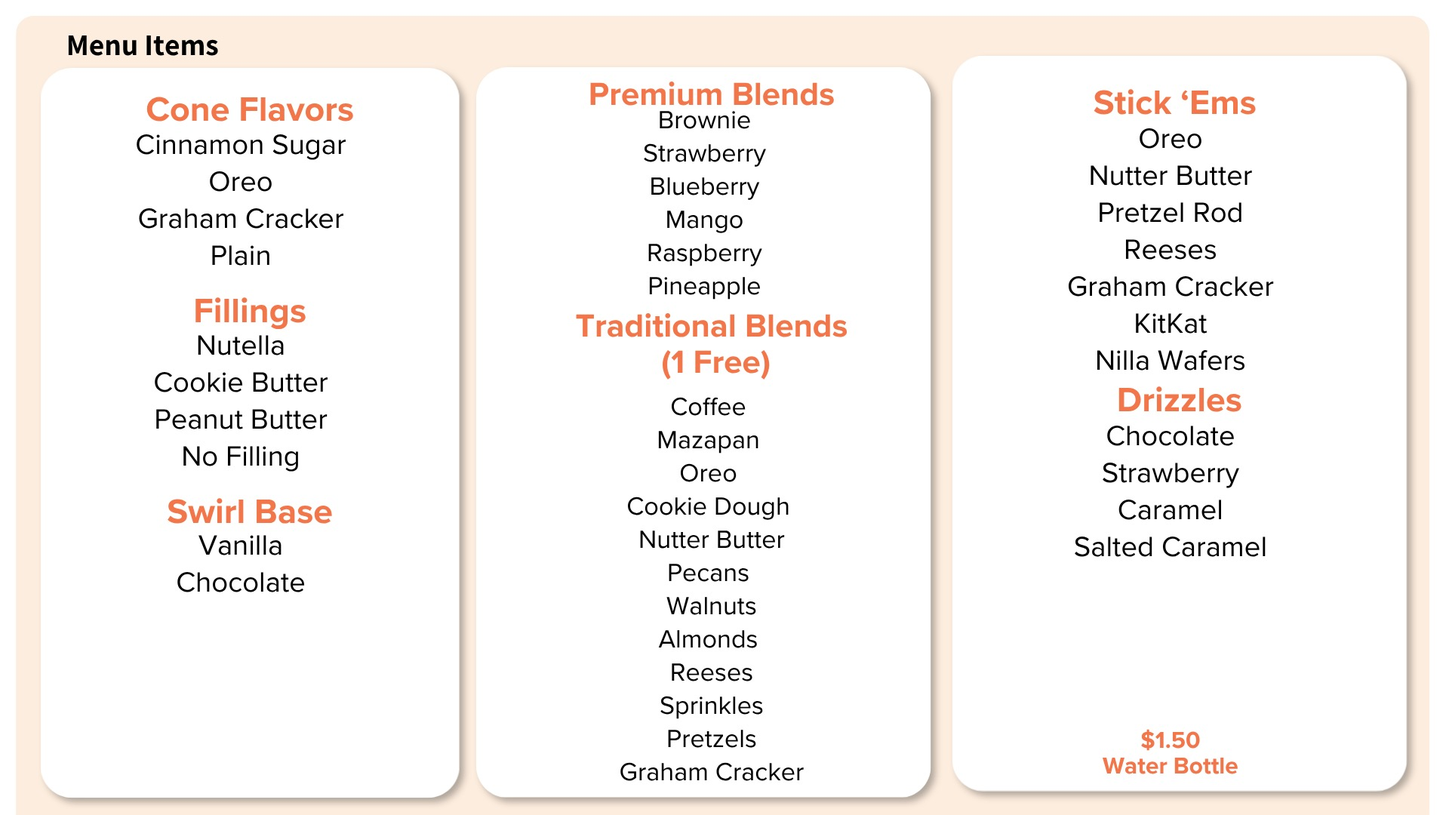
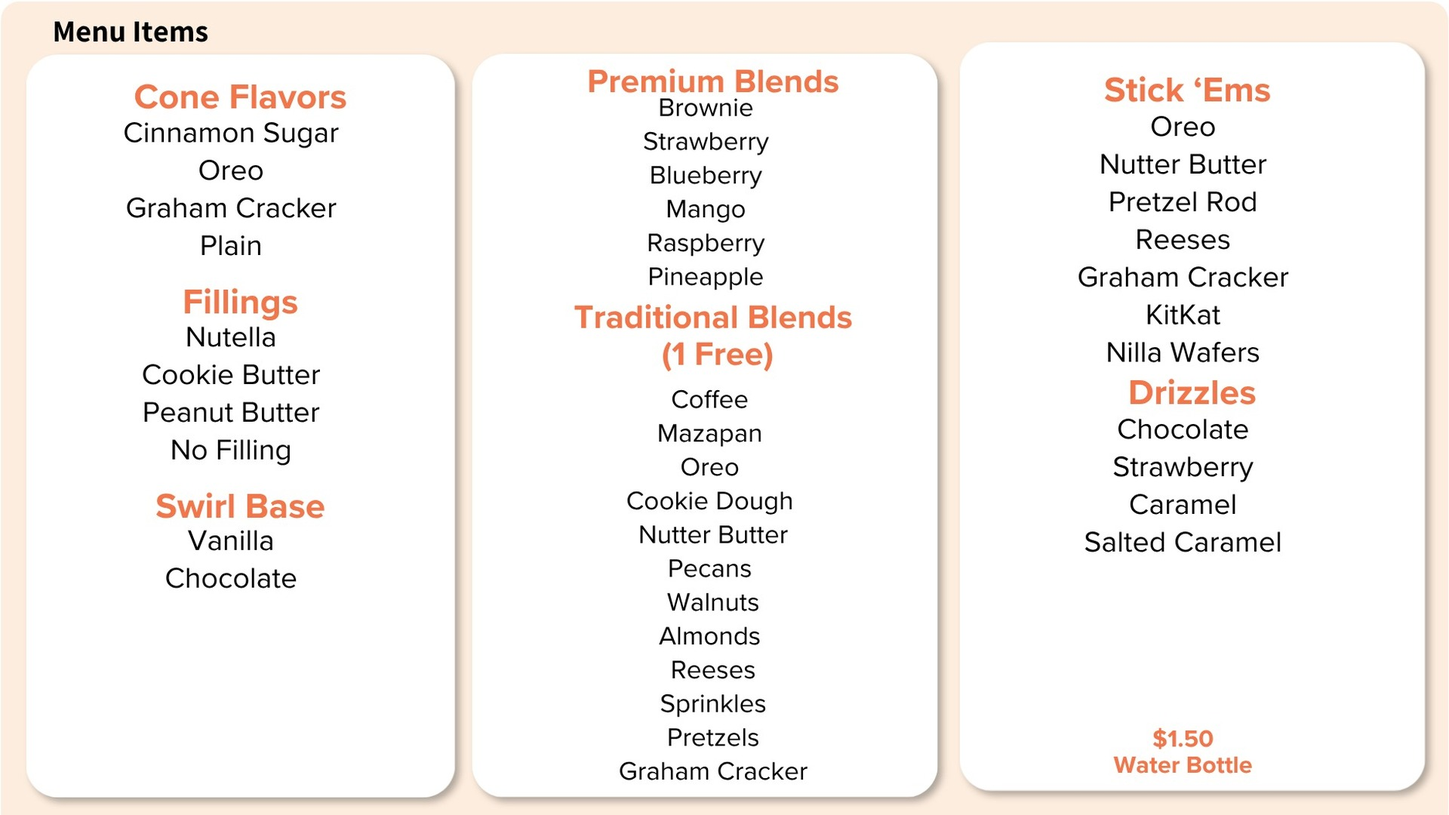
Trim menu JPEG margins and border, scale to 1920x1080; drop figure borders
- Auto-crop near-white frame on Menu Options and Menu Items, then LANCZOS resize to full HD
- Remove border/shadow classes from menu figures so the page does not add an extra outline

Made-with: Cursor

Changed region(s): [[0.0, 0.0, 1.0, 1.0], [0.0938, 0.6111, 0.25, 0.7333], [0.75, 0.8861, 0.875, 0.9472]]

diff --git a/index.html b/index.html
@@ -1276,7 +1276,7 @@ body {
     <div id="root"><div class="min-h-screen bg-surface"><header class="sticky top-0 z-50 border-b border-ink/10 bg-surface"><div class="mx-auto flex max-w-5xl items-center justify-between gap-4 px-5 py-4 lg:px-8"><a href="#" class="flex shrink-0 items-center focus:outline-none focus-visible:ring-2 focus-visible:ring-primary focus-visible:ring-offset-2" aria-label="CONE N&#39; SWIRL — Home"><img alt="CONE N&#39; SWIRL" class="h-10 w-auto max-w-[min(100%,200px)] object-contain object-left sm:h-12 sm:max-w-[240px]" src="./images/SwirlyOrange.jpeg"></a><nav class="hidden items-center gap-6 lg:flex" aria-label="Main"><a href="#about" class="text-sm font-semibold uppercase tracking-wide text-ink/80 transition-colors hover:text-primary">About</a><a href="#menu" class="text-sm font-semibold uppercase tracking-wide text-ink/80 transition-colors hover:text-primary">Menu</a><a href="#schedule" class="text-sm font-semibold uppercase tracking-wide text-ink/80 transition-colors hover:text-primary">Find us</a><a href="#gallery" class="text-sm font-semibold uppercase tracking-wide text-ink/80 transition-colors hover:text-primary">Gallery</a><a href="#contact" class="text-sm font-semibold uppercase tracking-wide text-ink/80 transition-colors hover:text-primary">Contact</a></nav><div class="hidden items-center gap-3 lg:flex"><a href="https://www.instagram.com/conenswirl/" target="_blank" rel="noopener noreferrer" class="inline-flex text-primary transition hover:text-ink" aria-label="CONE N&#39; SWIRL on Instagram (@conenswirl)"><svg class="h-6 w-6" viewBox="0 0 24 24" aria-hidden="true" fill="currentColor"><path d="M12 2.163c3.204 0 3.584.012 4.85.07 1.252.058 2.083.242 2.633.516a5.275 5.275 0 011.92 1.247 5.25 5.25 0 011.247 1.92c.274.55.458 1.38.516 2.633.058 1.266.07 1.646.07 4.85s-.012 3.584-.07 4.85c-.058 1.252-.242 2.083-.516 2.633a5.275 5.275 0 01-1.247 1.92 5.25 5.25 0 01-1.92 1.247c-.55.274-1.38.458-2.633.516-1.266.058-1.646.07-4.85.07s-3.584-.012-4.85-.07c-1.252-.058-2.083-.242-2.633-.516a5.275 5.275 0 01-1.92-1.247 5.25 5.25 0 01-1.247-1.92c-.274-.55-.458-1.38-.516-2.633-.058-1.266-.07-1.646-.07-4.85s.012-3.584.07-4.85c.058-1.252.242-2.083.516-2.633a5.275 5.275 0 011.247-1.92 5.25 5.25 0 011.92-1.247c.55-.274 1.38-.458 2.633-.516 1.266-.058 1.646-.07 4.85-.07zM12 5.838a6.162 6.162 0 100 12.324A6.162 6.162 0 0012 5.838zm0 10a4 4 0 110-8 4 4 0 010 8zm6.406-11.845a1.44 1.44 0 100 2.881 1.44 1.44 0 000-2.881z"></path></svg></a><a href="https://www.facebook.com/conenswirl" target="_blank" rel="noopener noreferrer" class="inline-flex text-primary transition hover:text-ink" aria-label="CONE N&#39; SWIRL on Facebook"><svg class="h-6 w-6" viewBox="0 0 24 24" aria-hidden="true" fill="currentColor"><path d="M24 12.073c0-6.627-5.373-12-12-12s-12 5.373-12 12c0 5.99 4.388 10.954 10.125 11.854v-8.385H7.078v-3.47h3.047V9.43c0-3.007 1.792-4.669 4.533-4.669 1.312 0 2.686.235 2.686.235v2.953H15.83c-1.491 0-1.956.925-1.956 1.874v2.25h3.328l-.532 3.47h-2.796v8.385C19.612 23.027 24 18.062 24 12.073z"></path></svg></a><a href="https://www.tiktok.com/@conenswirl" target="_blank" rel="noopener noreferrer" class="inline-flex text-primary transition hover:text-ink" aria-label="CONE N&#39; SWIRL on TikTok (@conenswirl)"><svg class="h-6 w-6" viewBox="0 0 24 24" aria-hidden="true" fill="currentColor"><path d="M12.525.02c1.31-.02 2.61-.01 3.91-.02.08 1.53.63 3.09 1.75 4.17 1.12 1.11 2.7 1.62 4.24 1.79v4.03c-1.44-.05-2.89-.35-4.2-.97-.57-.26-1.1-.59-1.62-.93-.01 2.92.01 5.84-.02 8.75-.08 1.4-.54 2.79-1.35 3.94-1.31 1.92-3.58 3.17-5.91 3.21-1.43.08-2.86-.31-4.08-1.03-2.02-1.19-3.44-3.37-3.65-5.71-.02-.5-.03-1-.01-1.49.18-1.9 1.12-3.72 2.58-4.96 1.66-1.44 3.98-2.13 6.15-1.72.02 1.48.02 2.96 0 4.44-.9-.15-1.89-.1-2.63.42-.72.51-1.16 1.35-1.21 2.21-.02.27-.01.55.02.82.15.94 1.01 1.74 1.94 1.85.93.12 1.91-.29 2.46-1.06.3-.41.44-.91.44-1.41V.02h-.13z"></path></svg></a><a href="#contact" class="border-2 border-primary bg-primary px-4 py-2 text-xs font-bold uppercase tracking-widest text-surface transition hover:bg-ink hover:border-ink">Contact us</a></div><button type="button" class="inline-flex h-10 w-10 items-center justify-center border border-ink/20 lg:hidden" aria-expanded="false" aria-label="Toggle menu"><span class="sr-only">Menu</span><svg class="h-5 w-5 text-ink" fill="none" viewBox="0 0 24 24" stroke="currentColor" aria-hidden="true"><path stroke-linecap="round" stroke-linejoin="round" stroke-width="2" d="M4 6h16M4 12h16M4 18h16"></path></svg></button></div></header><main><section class="hero-with-background px-5 py-16 text-center sm:py-20 lg:py-28"><div class="hero-content mx-auto max-w-3xl"><img alt="" class="hero-swirly-logo mx-auto max-w-full object-contain" src="./images/SwirlyWhite.png"><h1 class="mt-8 font-display text-4xl font-bold uppercase leading-tight tracking-tight text-surface sm:text-5xl lg:text-6xl">We put a twist to the ice cream cone</h1><p class="mx-auto mt-6 max-w-xl text-base leading-relaxed text-surface sm:text-lg">We serve blended ice cream paired with fresh baked Hungarian Chimney Cones.</p><div class="mt-10 flex flex-wrap justify-center gap-3"><a href="#menu" class="inline-flex border-2 border-surface bg-surface px-8 py-3 text-xs font-bold uppercase tracking-widest text-ink transition">See the menu</a><a href="#contact" class="inline-flex border-2 border-surface bg-transparent px-8 py-3 text-xs font-bold uppercase tracking-widest text-surface transition">Contact us</a></div><p class="mt-8 text-center text-sm font-semibold text-surface">Follow @conenswirl for where we're parked and what's on special.</p></div></section><section id="about" class="scroll-mt-20 border-b border-ink/10 bg-surface px-5 py-16 sm:py-24 lg:px-8"><div class="mx-auto max-w-3xl text-center"><h2 class="font-display text-3xl font-bold uppercase tracking-tight text-ink sm:text-4xl lg:text-5xl">Soft serve with a modern twist</h2><p class="mt-8 text-lg leading-relaxed text-ink/80">One evening, we stumbled upon a show featuring these incredible Hungarian chimney cones. We were just curious to try them as guests—but when we looked around San Antonio and Central Texas, there were none. We drove all the way to Houston just to taste one! After that trip, we were hooked. We spent two months experimenting in our kitchen, testing countless recipes with friends and neighbors until we perfected our own.
 What truly sets us apart is the fusion we created. Instead of traditional soft-serve, we offer a blended ice cream experience—similar to New Zealand-style soft serve, but with our own twist. We start with scooped ice cream, and aside from real fruit as an option, we can blend in coffee, almonds, pecans, Oreos, brownies, and much more.
 But that’s not all—each swirl is your creation. Our menu is fully customizable, giving you the freedom to craft your perfect cone or cup. At Cone N’ Swirl, every swirl is uniquely yours. We can’t wait to share this journey—and a swirl—with you!
-</p></div></section><section id="menu" class="scroll-mt-20 border-b border-ink/10 bg-surface px-5 py-16 sm:py-24 lg:px-8"><div class="mx-auto max-w-6xl"><div class="mx-auto max-w-3xl text-center"><p class="font-display text-xs font-semibold uppercase tracking-[0.35em] text-primary">Menu</p><h2 class="mt-3 font-display text-3xl font-bold uppercase tracking-tight text-ink sm:text-4xl">Build your perfect swirl</h2><p class="mt-6 text-lg leading-relaxed text-ink/85">With our unique cones, fillings, blends, Stick ’Ems, and drizzles, your choices are endless—you design every cone and cup.</p></div><figure class="mt-12 overflow-hidden rounded-lg border border-ink/15 bg-surface shadow-sm"><img alt="CONE N&#39; SWIRL menu options: offerings, prices, and how to build your cone or cup." class="mx-auto block w-full max-w-4xl object-contain" loading="lazy" decoding="async" src="./images/Menu%20Options.jpeg"><figcaption class="sr-only">Menu options graphic with offerings and pricing.</figcaption></figure><figure class="mt-14 overflow-hidden rounded-lg border border-ink/15 bg-surface shadow-sm"><img alt="CONE N&#39; SWIRL menu items: cones, fillings, blends, Stick &#39;Ems, drizzles, and mix-in options." class="mx-auto block w-full max-w-4xl object-contain" loading="lazy" decoding="async" src="./images/Menu%20Items.jpeg"><figcaption class="sr-only">Menu items: mix-ins, blends, Stick &#39;Ems, and drizzles.</figcaption></figure></div></section><section id="schedule" class="scroll-mt-20 border-b border-ink/10 bg-surface px-5 py-16 sm:py-24 lg:px-8"><div class="mx-auto max-w-3xl text-center"><p class="font-display text-xs font-semibold uppercase tracking-[0.35em] text-ink">Find us</p><h2 class="mt-3 font-display text-3xl font-bold uppercase tracking-tight text-ink sm:text-4xl">This week's stops</h2><p class="mt-4 leading-relaxed text-ink/75">Schedules change with weather and events—follow us on <a href="https://www.instagram.com/conenswirl/" target="_blank" rel="noopener noreferrer" class="social-inline-link font-semibold text-primary underline-offset-4 hover:underline"><svg viewBox="0 0 24 24" aria-hidden="true" fill="currentColor"><path d="M12 2.163c3.204 0 3.584.012 4.85.07 1.252.058 2.083.242 2.633.516a5.275 5.275 0 011.92 1.247 5.25 5.25 0 011.247 1.92c.274.55.458 1.38.516 2.633.058 1.266.07 1.646.07 4.85s-.012 3.584-.07 4.85c-.058 1.252-.242 2.083-.516 2.633a5.275 5.275 0 01-1.247 1.92 5.25 5.25 0 01-1.92 1.247c-.55.274-1.38.458-2.633.516-1.266.058-1.646.07-4.85.07s-3.584-.012-4.85-.07c-1.252-.058-2.083-.242-2.633-.516a5.275 5.275 0 01-1.92-1.247 5.25 5.25 0 01-1.247-1.92c-.274-.55-.458-1.38-.516-2.633-.058-1.266-.07-1.646-.07-4.85s.012-3.584.07-4.85c.058-1.252.242-2.083.516-2.633a5.275 5.275 0 011.247-1.92 5.25 5.25 0 011.92-1.247c.55-.274 1.38-.458 2.633-.516 1.266-.058 1.646-.07 4.85-.07zM12 5.838a6.162 6.162 0 100 12.324A6.162 6.162 0 0012 5.838zm0 10a4 4 0 110-8 4 4 0 010 8zm6.406-11.845a1.44 1.44 0 100 2.881 1.44 1.44 0 000-2.881z"></path></svg>Instagram</a>, <a href="https://www.facebook.com/conenswirl" target="_blank" rel="noopener noreferrer" class="social-inline-link font-semibold text-primary underline-offset-4 hover:underline"><svg viewBox="0 0 24 24" aria-hidden="true" fill="currentColor"><path d="M24 12.073c0-6.627-5.373-12-12-12s-12 5.373-12 12c0 5.99 4.388 10.954 10.125 11.854v-8.385H7.078v-3.47h3.047V9.43c0-3.007 1.792-4.669 4.533-4.669 1.312 0 2.686.235 2.686.235v2.953H15.83c-1.491 0-1.956.925-1.956 1.874v2.25h3.328l-.532 3.47h-2.796v8.385C19.612 23.027 24 18.062 24 12.073z"></path></svg>Facebook</a>, and <a href="https://www.tiktok.com/@conenswirl" target="_blank" rel="noopener noreferrer" class="social-inline-link font-semibold text-primary underline-offset-4 hover:underline"><svg viewBox="0 0 24 24" aria-hidden="true" fill="currentColor"><path d="M12.525.02c1.31-.02 2.61-.01 3.91-.02.08 1.53.63 3.09 1.75 4.17 1.12 1.11 2.7 1.62 4.24 1.79v4.03c-1.44-.05-2.89-.35-4.2-.97-.57-.26-1.1-.59-1.62-.93-.01 2.92.01 5.84-.02 8.75-.08 1.4-.54 2.79-1.35 3.94-1.31 1.92-3.58 3.17-5.91 3.21-1.43.08-2.86-.31-4.08-1.03-2.02-1.19-3.44-3.37-3.65-5.71-.02-.5-.03-1-.01-1.49.18-1.9 1.12-3.72 2.58-4.96 1.66-1.44 3.98-2.13 6.15-1.72.02 1.48.02 2.96 0 4.44-.9-.15-1.89-.1-2.63.42-.72.51-1.16 1.35-1.21 2.21-.02.27-.01.55.02.82.15.94 1.01 1.74 1.94 1.85.93.12 1.91-.29 2.46-1.06.3-.41.44-.91.44-1.41V.02h-.13z"></path></svg>TikTok</a> (<a href="https://www.instagram.com/conenswirl/" target="_blank" rel="noopener noreferrer" class="font-semibold text-primary underline-offset-4 hover:underline">@conenswirl</a>) for rain dates, pop-ups, and this week's stops.</p></div><div class="mx-auto mt-12 grid max-w-5xl grid-cols-1 items-center gap-8 lg:grid-cols-2 lg:gap-12"><div class="flex w-full justify-center"><div class="w-full max-w-xl overflow-hidden rounded-lg border border-ink/15 lg:max-w-none"><img src="./images/food-truck-serving.jpg" alt="CONE N&#39; SWIRL food truck serving at the window" class="aspect-[4/3] w-full object-cover" loading="lazy" decoding="async" width="800" height="600"></div></div><div class="overflow-hidden border border-ink/15"><table class="w-full text-left text-sm"><thead><tr class="border-b border-ink/15 bg-ink/5"><th class="px-4 py-3 font-display text-xs font-semibold uppercase tracking-wider text-ink sm:px-5">Day</th><th class="px-4 py-3 font-display text-xs font-semibold uppercase tracking-wider text-ink sm:px-5">Location</th><th class="hidden px-4 py-3 font-display text-xs font-semibold uppercase tracking-wider text-ink sm:table-cell sm:px-5">Hours</th></tr></thead><tbody><tr class="border-b border-ink/10 last:border-0"><td class="px-4 py-4 font-semibold text-primary sm:px-5">Tue</td><td class="px-4 py-4 text-ink sm:px-5">Copper Canyon<span class="mt-1 block text-ink/60 sm:hidden">5pm – 8pm</span></td><td class="hidden px-4 py-4 text-ink/70 sm:table-cell sm:px-5">5pm – 8pm</td></tr><tr class="border-b border-ink/10 last:border-0"><td class="px-4 py-4 font-semibold text-primary sm:px-5">Wed</td><td class="px-4 py-4 text-ink sm:px-5">Ranches at Creekside<span class="mt-1 block text-ink/60 sm:hidden">5pm – 8pm</span></td><td class="hidden px-4 py-4 text-ink/70 sm:table-cell sm:px-5">5pm – 8pm</td></tr><tr class="border-b border-ink/10 last:border-0"><td class="px-4 py-4 font-semibold text-primary sm:px-5">Thu</td><td class="px-4 py-4 text-ink sm:px-5">Whisper Falls<span class="mt-1 block text-ink/60 sm:hidden">5pm – 8pm</span></td><td class="hidden px-4 py-4 text-ink/70 sm:table-cell sm:px-5">5pm – 8pm</td></tr><tr class="border-b border-ink/10 last:border-0"><td class="px-4 py-4 font-semibold text-primary sm:px-5">Fri</td><td class="px-4 py-4 text-ink sm:px-5">Langdon Community<span class="mt-1 block text-ink/60 sm:hidden">5pm – 8pm</span></td><td class="hidden px-4 py-4 text-ink/70 sm:table-cell sm:px-5">5pm – 8pm</td></tr><tr class="border-b border-ink/10 last:border-0"><td class="px-4 py-4 font-semibold text-primary sm:px-5">Sat</td><td class="px-4 py-4 text-ink sm:px-5">Canyon Crest<span class="mt-1 block text-ink/60 sm:hidden">5pm – 8pm</span></td><td class="hidden px-4 py-4 text-ink/70 sm:table-cell sm:px-5">5pm – 8pm</td></tr></tbody></table></div></div></section><section class="border-b border-ink/10 bg-surface"><div id="gallery" class="scroll-mt-20 px-5 py-16 sm:py-20 lg:px-8"><div class="mx-auto max-w-5xl"><h2 class="text-center font-display text-3xl font-bold uppercase tracking-tight text-ink sm:text-4xl">Gallery</h2><p class="mx-auto mt-4 max-w-xl text-center leading-relaxed text-ink/75">Fresh photos live on <a href="https://www.instagram.com/conenswirl/" target="_blank" rel="noopener noreferrer" class="social-inline-link font-semibold text-primary underline-offset-4 hover:underline"><svg viewBox="0 0 24 24" aria-hidden="true" fill="currentColor"><path d="M12 2.163c3.204 0 3.584.012 4.85.07 1.252.058 2.083.242 2.633.516a5.275 5.275 0 011.92 1.247 5.25 5.25 0 011.247 1.92c.274.55.458 1.38.516 2.633.058 1.266.07 1.646.07 4.85s-.012 3.584-.07 4.85c-.058 1.252-.242 2.083-.516 2.633a5.275 5.275 0 01-1.247 1.92 5.25 5.25 0 01-1.92 1.247c-.55.274-1.38.458-2.633.516-1.266.058-1.646.07-4.85.07s-3.584-.012-4.85-.07c-1.252-.058-2.083-.242-2.633-.516a5.275 5.275 0 01-1.92-1.247 5.25 5.25 0 01-1.247-1.92c-.274-.55-.458-1.38-.516-2.633-.058-1.266-.07-1.646-.07-4.85s.012-3.584.07-4.85c.058-1.252.242-2.083.516-2.633a5.275 5.275 0 011.247-1.92 5.25 5.25 0 011.92-1.247c.55-.274 1.38-.458 2.633-.516 1.266-.058 1.646-.07 4.85-.07zM12 5.838a6.162 6.162 0 100 12.324A6.162 6.162 0 0012 5.838zm0 10a4 4 0 110-8 4 4 0 010 8zm6.406-11.845a1.44 1.44 0 100 2.881 1.44 1.44 0 000-2.881z"></path></svg>Instagram</a>, <a href="https://www.facebook.com/conenswirl" target="_blank" rel="noopener noreferrer" class="social-inline-link font-semibold text-primary underline-offset-4 hover:underline"><svg viewBox="0 0 24 24" aria-hidden="true" fill="currentColor"><path d="M24 12.073c0-6.627-5.373-12-12-12s-12 5.373-12 12c0 5.99 4.388 10.954 10.125 11.854v-8.385H7.078v-3.47h3.047V9.43c0-3.007 1.792-4.669 4.533-4.669 1.312 0 2.686.235 2.686.235v2.953H15.83c-1.491 0-1.956.925-1.956 1.874v2.25h3.328l-.532 3.47h-2.796v8.385C19.612 23.027 24 18.062 24 12.073z"></path></svg>Facebook</a>, and <a href="https://www.tiktok.com/@conenswirl" target="_blank" rel="noopener noreferrer" class="social-inline-link font-semibold text-primary underline-offset-4 hover:underline"><svg viewBox="0 0 24 24" aria-hidden="true" fill="currentColor"><path d="M12.525.02c1.31-.02 2.61-.01 3.91-.02.08 1.53.63 3.09 1.75 4.17 1.12 1.11 2.7 1.62 4.24 1.79v4.03c-1.44-.05-2.89-.35-4.2-.97-.57-.26-1.1-.59-1.62-.93-.01 2.92.01 5.84-.02 8.75-.08 1.4-.54 2.79-1.35 3.94-1.31 1.92-3.58 3.17-5.91 3.21-1.43.08-2.86-.31-4.08-1.03-2.02-1.19-3.44-3.37-3.65-5.71-.02-.5-.03-1-.01-1.49.18-1.9 1.12-3.72 2.58-4.96 1.66-1.44 3.98-2.13 6.15-1.72.02 1.48.02 2.96 0 4.44-.9-.15-1.89-.1-2.63.42-.72.51-1.16 1.35-1.21 2.21-.02.27-.01.55.02.82.15.94 1.01 1.74 1.94 1.85.93.12 1.91-.29 2.46-1.06.3-.41.44-.91.44-1.41V.02h-.13z"></path></svg>TikTok</a> at <a href="https://www.instagram.com/conenswirl/" target="_blank" rel="noopener noreferrer" class="font-semibold text-primary underline-offset-4 hover:underline">@conenswirl</a>—follow for pop-ups, specials, and behind the window.</p><div class="gallery-grid mt-10 grid grid-cols-2 gap-2 sm:grid-cols-3 sm:gap-3 md:gap-4"><div class="overflow-hidden rounded-lg border border-ink/15 bg-surface"><img src="./images/plain.png" alt="Plain cone with soft serve" class="w-full h-auto" loading="lazy" decoding="async"></div><div class="overflow-hidden rounded-lg border border-ink/15 bg-surface"><img src="./images/oreocone.png" alt="Oreo cone with ice cream" class="w-full h-auto" loading="lazy" decoding="async"></div><div class="overflow-hidden rounded-lg border border-ink/15 bg-surface"><img src="./images/purpletop.png?v=2" alt="Purple topped soft serve cone" class="w-full h-auto" loading="lazy" decoding="async"></div><div class="overflow-hidden rounded-lg border border-ink/15 bg-surface"><img src="./images/stickems.png" alt="Soft serve with Stick ’Ems" class="w-full h-auto" loading="lazy" decoding="async"></div><div class="overflow-hidden rounded-lg border border-ink/15 bg-surface"><img src="./images/pinktop.png" alt="Pink topped soft serve cone" class="w-full h-auto" loading="lazy" decoding="async"></div><div class="overflow-hidden rounded-lg border border-ink/15 bg-surface"><img src="./images/yellowtop.png" alt="Yellow topped soft serve cone" class="w-full h-auto" loading="lazy" decoding="async"></div></div></div></div></section><section id="contact" class="scroll-mt-20 border-t border-ink/10 bg-primary px-5 py-16 sm:py-24 lg:px-8"><div class="mx-auto max-w-2xl"><div class="rounded-lg border border-ink/15 bg-surface p-6 text-center sm:p-8 lg:p-10"><p class="font-display text-xs font-semibold uppercase tracking-[0.35em] text-ink">Contact</p><h2 class="mt-3 font-display text-3xl font-bold uppercase tracking-tight text-ink sm:text-4xl">Get in touch</h2><p class="mt-4 leading-relaxed text-ink/75">Questions about the truck, pricing, or a date? Send a note—we usually reply within two business days. For same-day locations and specials, follow <a href="https://www.instagram.com/conenswirl/" target="_blank" rel="noopener noreferrer" class="social-inline-link font-semibold text-primary underline-offset-4 hover:underline"><svg viewBox="0 0 24 24" aria-hidden="true" fill="currentColor"><path d="M12 2.163c3.204 0 3.584.012 4.85.07 1.252.058 2.083.242 2.633.516a5.275 5.275 0 011.92 1.247 5.25 5.25 0 011.247 1.92c.274.55.458 1.38.516 2.633.058 1.266.07 1.646.07 4.85s-.012 3.584-.07 4.85c-.058 1.252-.242 2.083-.516 2.633a5.275 5.275 0 01-1.247 1.92 5.25 5.25 0 01-1.92 1.247c-.55.274-1.38.458-2.633.516-1.266.058-1.646.07-4.85.07s-3.584-.012-4.85-.07c-1.252-.058-2.083-.242-2.633-.516a5.275 5.275 0 01-1.92-1.247 5.25 5.25 0 01-1.247-1.92c-.274-.55-.458-1.38-.516-2.633-.058-1.266-.07-1.646-.07-4.85s.012-3.584.07-4.85c.058-1.252.242-2.083.516-2.633a5.275 5.275 0 011.247-1.92 5.25 5.25 0 011.92-1.247c.55-.274 1.38-.458 2.633-.516 1.266-.058 1.646-.07 4.85-.07zM12 5.838a6.162 6.162 0 100 12.324A6.162 6.162 0 0012 5.838zm0 10a4 4 0 110-8 4 4 0 010 8zm6.406-11.845a1.44 1.44 0 100 2.881 1.44 1.44 0 000-2.881z"></path></svg>Instagram</a>, <a href="https://www.facebook.com/conenswirl" target="_blank" rel="noopener noreferrer" class="social-inline-link font-semibold text-primary underline-offset-4 hover:underline"><svg viewBox="0 0 24 24" aria-hidden="true" fill="currentColor"><path d="M24 12.073c0-6.627-5.373-12-12-12s-12 5.373-12 12c0 5.99 4.388 10.954 10.125 11.854v-8.385H7.078v-3.47h3.047V9.43c0-3.007 1.792-4.669 4.533-4.669 1.312 0 2.686.235 2.686.235v2.953H15.83c-1.491 0-1.956.925-1.956 1.874v2.25h3.328l-.532 3.47h-2.796v8.385C19.612 23.027 24 18.062 24 12.073z"></path></svg>Facebook</a>, and <a href="https://www.tiktok.com/@conenswirl" target="_blank" rel="noopener noreferrer" class="social-inline-link font-semibold text-primary underline-offset-4 hover:underline"><svg viewBox="0 0 24 24" aria-hidden="true" fill="currentColor"><path d="M12.525.02c1.31-.02 2.61-.01 3.91-.02.08 1.53.63 3.09 1.75 4.17 1.12 1.11 2.7 1.62 4.24 1.79v4.03c-1.44-.05-2.89-.35-4.2-.97-.57-.26-1.1-.59-1.62-.93-.01 2.92.01 5.84-.02 8.75-.08 1.4-.54 2.79-1.35 3.94-1.31 1.92-3.58 3.17-5.91 3.21-1.43.08-2.86-.31-4.08-1.03-2.02-1.19-3.44-3.37-3.65-5.71-.02-.5-.03-1-.01-1.49.18-1.9 1.12-3.72 2.58-4.96 1.66-1.44 3.98-2.13 6.15-1.72.02 1.48.02 2.96 0 4.44-.9-.15-1.89-.1-2.63.42-.72.51-1.16 1.35-1.21 2.21-.02.27-.01.55.02.82.15.94 1.01 1.74 1.94 1.85.93.12 1.91-.29 2.46-1.06.3-.41.44-.91.44-1.41V.02h-.13z"></path></svg>TikTok</a> at <a href="https://www.instagram.com/conenswirl/" target="_blank" rel="noopener noreferrer" class="font-semibold text-primary underline-offset-4 hover:underline">@conenswirl</a>.</p><dl class="mt-10 space-y-6 text-sm"><div><dt class="font-display text-xs font-semibold uppercase tracking-widest text-ink">Email</dt><dd class="mt-2"><a href="mailto:conenswirl@gmail.com" class="font-semibold text-primary underline-offset-4 hover:underline">conenswirl@gmail.com</a></dd></div><div><dt class="font-display text-xs font-semibold uppercase tracking-widest text-ink">Phone</dt><dd class="mt-2"><a href="tel:+19562860601" class="font-semibold text-primary underline-offset-4 hover:underline">(956) 286-0601</a></dd></div></dl></div></div></section></main><footer class="border-t border-ink/10 bg-ink py-10 text-surface"><div class="mx-auto flex max-w-5xl flex-col gap-6 px-5 sm:flex-row sm:items-center sm:justify-between lg:px-8"><div><p class="font-display text-lg font-semibold uppercase tracking-wide">CONE N' SWIRL</p><p class="mt-1 text-sm text-surface/65">© 2026 CONE N' SWIRL. All rights reserved.</p></div><div class="flex flex-wrap items-center gap-6 text-sm font-semibold uppercase tracking-wide text-surface/80"><a href="#menu" class="hover:text-surface">Menu</a><a href="#schedule" class="hover:text-surface">Find us</a><a href="#gallery" class="hover:text-surface">Gallery</a><a href="#contact" class="hover:text-surface">Contact</a><span class="inline-flex flex-wrap items-center gap-4"><a href="https://www.instagram.com/conenswirl/" target="_blank" rel="noopener noreferrer" class="inline-flex items-center gap-2 hover:text-surface" aria-label="CONE N&#39; SWIRL on Instagram"><svg class="h-5 w-5" viewBox="0 0 24 24" aria-hidden="true" fill="currentColor"><path d="M12 2.163c3.204 0 3.584.012 4.85.07 1.252.058 2.083.242 2.633.516a5.275 5.275 0 011.92 1.247 5.25 5.25 0 011.247 1.92c.274.55.458 1.38.516 2.633.058 1.266.07 1.646.07 4.85s-.012 3.584-.07 4.85c-.058 1.252-.242 2.083-.516 2.633a5.275 5.275 0 01-1.247 1.92 5.25 5.25 0 01-1.92 1.247c-.55.274-1.38.458-2.633.516-1.266.058-1.646.07-4.85.07s-3.584-.012-4.85-.07c-1.252-.058-2.083-.242-2.633-.516a5.275 5.275 0 01-1.92-1.247 5.25 5.25 0 01-1.247-1.92c-.274-.55-.458-1.38-.516-2.633-.058-1.266-.07-1.646-.07-4.85s.012-3.584.07-4.85c.058-1.252.242-2.083.516-2.633a5.275 5.275 0 011.247-1.92 5.25 5.25 0 011.92-1.247c.55-.274 1.38-.458 2.633-.516 1.266-.058 1.646-.07 4.85-.07zM12 5.838a6.162 6.162 0 100 12.324A6.162 6.162 0 0012 5.838zm0 10a4 4 0 110-8 4 4 0 010 8zm6.406-11.845a1.44 1.44 0 100 2.881 1.44 1.44 0 000-2.881z"></path></svg>Instagram</a><a href="https://www.facebook.com/conenswirl" target="_blank" rel="noopener noreferrer" class="inline-flex items-center gap-2 hover:text-surface" aria-label="CONE N&#39; SWIRL on Facebook"><svg class="h-5 w-5" viewBox="0 0 24 24" aria-hidden="true" fill="currentColor"><path d="M24 12.073c0-6.627-5.373-12-12-12s-12 5.373-12 12c0 5.99 4.388 10.954 10.125 11.854v-8.385H7.078v-3.47h3.047V9.43c0-3.007 1.792-4.669 4.533-4.669 1.312 0 2.686.235 2.686.235v2.953H15.83c-1.491 0-1.956.925-1.956 1.874v2.25h3.328l-.532 3.47h-2.796v8.385C19.612 23.027 24 18.062 24 12.073z"></path></svg>Facebook</a><a href="https://www.tiktok.com/@conenswirl" target="_blank" rel="noopener noreferrer" class="inline-flex items-center gap-2 hover:text-surface" aria-label="CONE N&#39; SWIRL on TikTok"><svg class="h-5 w-5" viewBox="0 0 24 24" aria-hidden="true" fill="currentColor"><path d="M12.525.02c1.31-.02 2.61-.01 3.91-.02.08 1.53.63 3.09 1.75 4.17 1.12 1.11 2.7 1.62 4.24 1.79v4.03c-1.44-.05-2.89-.35-4.2-.97-.57-.26-1.1-.59-1.62-.93-.01 2.92.01 5.84-.02 8.75-.08 1.4-.54 2.79-1.35 3.94-1.31 1.92-3.58 3.17-5.91 3.21-1.43.08-2.86-.31-4.08-1.03-2.02-1.19-3.44-3.37-3.65-5.71-.02-.5-.03-1-.01-1.49.18-1.9 1.12-3.72 2.58-4.96 1.66-1.44 3.98-2.13 6.15-1.72.02 1.48.02 2.96 0 4.44-.9-.15-1.89-.1-2.63.42-.72.51-1.16 1.35-1.21 2.21-.02.27-.01.55.02.82.15.94 1.01 1.74 1.94 1.85.93.12 1.91-.29 2.46-1.06.3-.41.44-.91.44-1.41V.02h-.13z"></path></svg>TikTok</a></span></div></div></footer></div></div>
+</p></div></section><section id="menu" class="scroll-mt-20 border-b border-ink/10 bg-surface px-5 py-16 sm:py-24 lg:px-8"><div class="mx-auto max-w-6xl"><div class="mx-auto max-w-3xl text-center"><p class="font-display text-xs font-semibold uppercase tracking-[0.35em] text-primary">Menu</p><h2 class="mt-3 font-display text-3xl font-bold uppercase tracking-tight text-ink sm:text-4xl">Build your perfect swirl</h2><p class="mt-6 text-lg leading-relaxed text-ink/85">With our unique cones, fillings, blends, Stick ’Ems, and drizzles, your choices are endless—you design every cone and cup.</p></div><figure class="mt-12 overflow-hidden rounded-lg bg-surface"><img alt="CONE N&#39; SWIRL menu options: offerings, prices, and how to build your cone or cup." class="mx-auto block w-full max-w-4xl object-contain" loading="lazy" decoding="async" src="./images/Menu%20Options.jpeg"><figcaption class="sr-only">Menu options graphic with offerings and pricing.</figcaption></figure><figure class="mt-14 overflow-hidden rounded-lg bg-surface"><img alt="CONE N&#39; SWIRL menu items: cones, fillings, blends, Stick &#39;Ems, drizzles, and mix-in options." class="mx-auto block w-full max-w-4xl object-contain" loading="lazy" decoding="async" src="./images/Menu%20Items.jpeg"><figcaption class="sr-only">Menu items: mix-ins, blends, Stick &#39;Ems, and drizzles.</figcaption></figure></div></section><section id="schedule" class="scroll-mt-20 border-b border-ink/10 bg-surface px-5 py-16 sm:py-24 lg:px-8"><div class="mx-auto max-w-3xl text-center"><p class="font-display text-xs font-semibold uppercase tracking-[0.35em] text-ink">Find us</p><h2 class="mt-3 font-display text-3xl font-bold uppercase tracking-tight text-ink sm:text-4xl">This week's stops</h2><p class="mt-4 leading-relaxed text-ink/75">Schedules change with weather and events—follow us on <a href="https://www.instagram.com/conenswirl/" target="_blank" rel="noopener noreferrer" class="social-inline-link font-semibold text-primary underline-offset-4 hover:underline"><svg viewBox="0 0 24 24" aria-hidden="true" fill="currentColor"><path d="M12 2.163c3.204 0 3.584.012 4.85.07 1.252.058 2.083.242 2.633.516a5.275 5.275 0 011.92 1.247 5.25 5.25 0 011.247 1.92c.274.55.458 1.38.516 2.633.058 1.266.07 1.646.07 4.85s-.012 3.584-.07 4.85c-.058 1.252-.242 2.083-.516 2.633a5.275 5.275 0 01-1.247 1.92 5.25 5.25 0 01-1.92 1.247c-.55.274-1.38.458-2.633.516-1.266.058-1.646.07-4.85.07s-3.584-.012-4.85-.07c-1.252-.058-2.083-.242-2.633-.516a5.275 5.275 0 01-1.92-1.247 5.25 5.25 0 01-1.247-1.92c-.274-.55-.458-1.38-.516-2.633-.058-1.266-.07-1.646-.07-4.85s.012-3.584.07-4.85c.058-1.252.242-2.083.516-2.633a5.275 5.275 0 011.247-1.92 5.25 5.25 0 011.92-1.247c.55-.274 1.38-.458 2.633-.516 1.266-.058 1.646-.07 4.85-.07zM12 5.838a6.162 6.162 0 100 12.324A6.162 6.162 0 0012 5.838zm0 10a4 4 0 110-8 4 4 0 010 8zm6.406-11.845a1.44 1.44 0 100 2.881 1.44 1.44 0 000-2.881z"></path></svg>Instagram</a>, <a href="https://www.facebook.com/conenswirl" target="_blank" rel="noopener noreferrer" class="social-inline-link font-semibold text-primary underline-offset-4 hover:underline"><svg viewBox="0 0 24 24" aria-hidden="true" fill="currentColor"><path d="M24 12.073c0-6.627-5.373-12-12-12s-12 5.373-12 12c0 5.99 4.388 10.954 10.125 11.854v-8.385H7.078v-3.47h3.047V9.43c0-3.007 1.792-4.669 4.533-4.669 1.312 0 2.686.235 2.686.235v2.953H15.83c-1.491 0-1.956.925-1.956 1.874v2.25h3.328l-.532 3.47h-2.796v8.385C19.612 23.027 24 18.062 24 12.073z"></path></svg>Facebook</a>, and <a href="https://www.tiktok.com/@conenswirl" target="_blank" rel="noopener noreferrer" class="social-inline-link font-semibold text-primary underline-offset-4 hover:underline"><svg viewBox="0 0 24 24" aria-hidden="true" fill="currentColor"><path d="M12.525.02c1.31-.02 2.61-.01 3.91-.02.08 1.53.63 3.09 1.75 4.17 1.12 1.11 2.7 1.62 4.24 1.79v4.03c-1.44-.05-2.89-.35-4.2-.97-.57-.26-1.1-.59-1.62-.93-.01 2.92.01 5.84-.02 8.75-.08 1.4-.54 2.79-1.35 3.94-1.31 1.92-3.58 3.17-5.91 3.21-1.43.08-2.86-.31-4.08-1.03-2.02-1.19-3.44-3.37-3.65-5.71-.02-.5-.03-1-.01-1.49.18-1.9 1.12-3.72 2.58-4.96 1.66-1.44 3.98-2.13 6.15-1.72.02 1.48.02 2.96 0 4.44-.9-.15-1.89-.1-2.63.42-.72.51-1.16 1.35-1.21 2.21-.02.27-.01.55.02.82.15.94 1.01 1.74 1.94 1.85.93.12 1.91-.29 2.46-1.06.3-.41.44-.91.44-1.41V.02h-.13z"></path></svg>TikTok</a> (<a href="https://www.instagram.com/conenswirl/" target="_blank" rel="noopener noreferrer" class="font-semibold text-primary underline-offset-4 hover:underline">@conenswirl</a>) for rain dates, pop-ups, and this week's stops.</p></div><div class="mx-auto mt-12 grid max-w-5xl grid-cols-1 items-center gap-8 lg:grid-cols-2 lg:gap-12"><div class="flex w-full justify-center"><div class="w-full max-w-xl overflow-hidden rounded-lg border border-ink/15 lg:max-w-none"><img src="./images/food-truck-serving.jpg" alt="CONE N&#39; SWIRL food truck serving at the window" class="aspect-[4/3] w-full object-cover" loading="lazy" decoding="async" width="800" height="600"></div></div><div class="overflow-hidden border border-ink/15"><table class="w-full text-left text-sm"><thead><tr class="border-b border-ink/15 bg-ink/5"><th class="px-4 py-3 font-display text-xs font-semibold uppercase tracking-wider text-ink sm:px-5">Day</th><th class="px-4 py-3 font-display text-xs font-semibold uppercase tracking-wider text-ink sm:px-5">Location</th><th class="hidden px-4 py-3 font-display text-xs font-semibold uppercase tracking-wider text-ink sm:table-cell sm:px-5">Hours</th></tr></thead><tbody><tr class="border-b border-ink/10 last:border-0"><td class="px-4 py-4 font-semibold text-primary sm:px-5">Tue</td><td class="px-4 py-4 text-ink sm:px-5">Copper Canyon<span class="mt-1 block text-ink/60 sm:hidden">5pm – 8pm</span></td><td class="hidden px-4 py-4 text-ink/70 sm:table-cell sm:px-5">5pm – 8pm</td></tr><tr class="border-b border-ink/10 last:border-0"><td class="px-4 py-4 font-semibold text-primary sm:px-5">Wed</td><td class="px-4 py-4 text-ink sm:px-5">Ranches at Creekside<span class="mt-1 block text-ink/60 sm:hidden">5pm – 8pm</span></td><td class="hidden px-4 py-4 text-ink/70 sm:table-cell sm:px-5">5pm – 8pm</td></tr><tr class="border-b border-ink/10 last:border-0"><td class="px-4 py-4 font-semibold text-primary sm:px-5">Thu</td><td class="px-4 py-4 text-ink sm:px-5">Whisper Falls<span class="mt-1 block text-ink/60 sm:hidden">5pm – 8pm</span></td><td class="hidden px-4 py-4 text-ink/70 sm:table-cell sm:px-5">5pm – 8pm</td></tr><tr class="border-b border-ink/10 last:border-0"><td class="px-4 py-4 font-semibold text-primary sm:px-5">Fri</td><td class="px-4 py-4 text-ink sm:px-5">Langdon Community<span class="mt-1 block text-ink/60 sm:hidden">5pm – 8pm</span></td><td class="hidden px-4 py-4 text-ink/70 sm:table-cell sm:px-5">5pm – 8pm</td></tr><tr class="border-b border-ink/10 last:border-0"><td class="px-4 py-4 font-semibold text-primary sm:px-5">Sat</td><td class="px-4 py-4 text-ink sm:px-5">Canyon Crest<span class="mt-1 block text-ink/60 sm:hidden">5pm – 8pm</span></td><td class="hidden px-4 py-4 text-ink/70 sm:table-cell sm:px-5">5pm – 8pm</td></tr></tbody></table></div></div></section><section class="border-b border-ink/10 bg-surface"><div id="gallery" class="scroll-mt-20 px-5 py-16 sm:py-20 lg:px-8"><div class="mx-auto max-w-5xl"><h2 class="text-center font-display text-3xl font-bold uppercase tracking-tight text-ink sm:text-4xl">Gallery</h2><p class="mx-auto mt-4 max-w-xl text-center leading-relaxed text-ink/75">Fresh photos live on <a href="https://www.instagram.com/conenswirl/" target="_blank" rel="noopener noreferrer" class="social-inline-link font-semibold text-primary underline-offset-4 hover:underline"><svg viewBox="0 0 24 24" aria-hidden="true" fill="currentColor"><path d="M12 2.163c3.204 0 3.584.012 4.85.07 1.252.058 2.083.242 2.633.516a5.275 5.275 0 011.92 1.247 5.25 5.25 0 011.247 1.92c.274.55.458 1.38.516 2.633.058 1.266.07 1.646.07 4.85s-.012 3.584-.07 4.85c-.058 1.252-.242 2.083-.516 2.633a5.275 5.275 0 01-1.247 1.92 5.25 5.25 0 01-1.92 1.247c-.55.274-1.38.458-2.633.516-1.266.058-1.646.07-4.85.07s-3.584-.012-4.85-.07c-1.252-.058-2.083-.242-2.633-.516a5.275 5.275 0 01-1.92-1.247 5.25 5.25 0 01-1.247-1.92c-.274-.55-.458-1.38-.516-2.633-.058-1.266-.07-1.646-.07-4.85s.012-3.584.07-4.85c.058-1.252.242-2.083.516-2.633a5.275 5.275 0 011.247-1.92 5.25 5.25 0 011.92-1.247c.55-.274 1.38-.458 2.633-.516 1.266-.058 1.646-.07 4.85-.07zM12 5.838a6.162 6.162 0 100 12.324A6.162 6.162 0 0012 5.838zm0 10a4 4 0 110-8 4 4 0 010 8zm6.406-11.845a1.44 1.44 0 100 2.881 1.44 1.44 0 000-2.881z"></path></svg>Instagram</a>, <a href="https://www.facebook.com/conenswirl" target="_blank" rel="noopener noreferrer" class="social-inline-link font-semibold text-primary underline-offset-4 hover:underline"><svg viewBox="0 0 24 24" aria-hidden="true" fill="currentColor"><path d="M24 12.073c0-6.627-5.373-12-12-12s-12 5.373-12 12c0 5.99 4.388 10.954 10.125 11.854v-8.385H7.078v-3.47h3.047V9.43c0-3.007 1.792-4.669 4.533-4.669 1.312 0 2.686.235 2.686.235v2.953H15.83c-1.491 0-1.956.925-1.956 1.874v2.25h3.328l-.532 3.47h-2.796v8.385C19.612 23.027 24 18.062 24 12.073z"></path></svg>Facebook</a>, and <a href="https://www.tiktok.com/@conenswirl" target="_blank" rel="noopener noreferrer" class="social-inline-link font-semibold text-primary underline-offset-4 hover:underline"><svg viewBox="0 0 24 24" aria-hidden="true" fill="currentColor"><path d="M12.525.02c1.31-.02 2.61-.01 3.91-.02.08 1.53.63 3.09 1.75 4.17 1.12 1.11 2.7 1.62 4.24 1.79v4.03c-1.44-.05-2.89-.35-4.2-.97-.57-.26-1.1-.59-1.62-.93-.01 2.92.01 5.84-.02 8.75-.08 1.4-.54 2.79-1.35 3.94-1.31 1.92-3.58 3.17-5.91 3.21-1.43.08-2.86-.31-4.08-1.03-2.02-1.19-3.44-3.37-3.65-5.71-.02-.5-.03-1-.01-1.49.18-1.9 1.12-3.72 2.58-4.96 1.66-1.44 3.98-2.13 6.15-1.72.02 1.48.02 2.96 0 4.44-.9-.15-1.89-.1-2.63.42-.72.51-1.16 1.35-1.21 2.21-.02.27-.01.55.02.82.15.94 1.01 1.74 1.94 1.85.93.12 1.91-.29 2.46-1.06.3-.41.44-.91.44-1.41V.02h-.13z"></path></svg>TikTok</a> at <a href="https://www.instagram.com/conenswirl/" target="_blank" rel="noopener noreferrer" class="font-semibold text-primary underline-offset-4 hover:underline">@conenswirl</a>—follow for pop-ups, specials, and behind the window.</p><div class="gallery-grid mt-10 grid grid-cols-2 gap-2 sm:grid-cols-3 sm:gap-3 md:gap-4"><div class="overflow-hidden rounded-lg border border-ink/15 bg-surface"><img src="./images/plain.png" alt="Plain cone with soft serve" class="w-full h-auto" loading="lazy" decoding="async"></div><div class="overflow-hidden rounded-lg border border-ink/15 bg-surface"><img src="./images/oreocone.png" alt="Oreo cone with ice cream" class="w-full h-auto" loading="lazy" decoding="async"></div><div class="overflow-hidden rounded-lg border border-ink/15 bg-surface"><img src="./images/purpletop.png?v=2" alt="Purple topped soft serve cone" class="w-full h-auto" loading="lazy" decoding="async"></div><div class="overflow-hidden rounded-lg border border-ink/15 bg-surface"><img src="./images/stickems.png" alt="Soft serve with Stick ’Ems" class="w-full h-auto" loading="lazy" decoding="async"></div><div class="overflow-hidden rounded-lg border border-ink/15 bg-surface"><img src="./images/pinktop.png" alt="Pink topped soft serve cone" class="w-full h-auto" loading="lazy" decoding="async"></div><div class="overflow-hidden rounded-lg border border-ink/15 bg-surface"><img src="./images/yellowtop.png" alt="Yellow topped soft serve cone" class="w-full h-auto" loading="lazy" decoding="async"></div></div></div></div></section><section id="contact" class="scroll-mt-20 border-t border-ink/10 bg-primary px-5 py-16 sm:py-24 lg:px-8"><div class="mx-auto max-w-2xl"><div class="rounded-lg border border-ink/15 bg-surface p-6 text-center sm:p-8 lg:p-10"><p class="font-display text-xs font-semibold uppercase tracking-[0.35em] text-ink">Contact</p><h2 class="mt-3 font-display text-3xl font-bold uppercase tracking-tight text-ink sm:text-4xl">Get in touch</h2><p class="mt-4 leading-relaxed text-ink/75">Questions about the truck, pricing, or a date? Send a note—we usually reply within two business days. For same-day locations and specials, follow <a href="https://www.instagram.com/conenswirl/" target="_blank" rel="noopener noreferrer" class="social-inline-link font-semibold text-primary underline-offset-4 hover:underline"><svg viewBox="0 0 24 24" aria-hidden="true" fill="currentColor"><path d="M12 2.163c3.204 0 3.584.012 4.85.07 1.252.058 2.083.242 2.633.516a5.275 5.275 0 011.92 1.247 5.25 5.25 0 011.247 1.92c.274.55.458 1.38.516 2.633.058 1.266.07 1.646.07 4.85s-.012 3.584-.07 4.85c-.058 1.252-.242 2.083-.516 2.633a5.275 5.275 0 01-1.247 1.92 5.25 5.25 0 01-1.92 1.247c-.55.274-1.38.458-2.633.516-1.266.058-1.646.07-4.85.07s-3.584-.012-4.85-.07c-1.252-.058-2.083-.242-2.633-.516a5.275 5.275 0 01-1.92-1.247 5.25 5.25 0 01-1.247-1.92c-.274-.55-.458-1.38-.516-2.633-.058-1.266-.07-1.646-.07-4.85s.012-3.584.07-4.85c.058-1.252.242-2.083.516-2.633a5.275 5.275 0 011.247-1.92 5.25 5.25 0 011.92-1.247c.55-.274 1.38-.458 2.633-.516 1.266-.058 1.646-.07 4.85-.07zM12 5.838a6.162 6.162 0 100 12.324A6.162 6.162 0 0012 5.838zm0 10a4 4 0 110-8 4 4 0 010 8zm6.406-11.845a1.44 1.44 0 100 2.881 1.44 1.44 0 000-2.881z"></path></svg>Instagram</a>, <a href="https://www.facebook.com/conenswirl" target="_blank" rel="noopener noreferrer" class="social-inline-link font-semibold text-primary underline-offset-4 hover:underline"><svg viewBox="0 0 24 24" aria-hidden="true" fill="currentColor"><path d="M24 12.073c0-6.627-5.373-12-12-12s-12 5.373-12 12c0 5.99 4.388 10.954 10.125 11.854v-8.385H7.078v-3.47h3.047V9.43c0-3.007 1.792-4.669 4.533-4.669 1.312 0 2.686.235 2.686.235v2.953H15.83c-1.491 0-1.956.925-1.956 1.874v2.25h3.328l-.532 3.47h-2.796v8.385C19.612 23.027 24 18.062 24 12.073z"></path></svg>Facebook</a>, and <a href="https://www.tiktok.com/@conenswirl" target="_blank" rel="noopener noreferrer" class="social-inline-link font-semibold text-primary underline-offset-4 hover:underline"><svg viewBox="0 0 24 24" aria-hidden="true" fill="currentColor"><path d="M12.525.02c1.31-.02 2.61-.01 3.91-.02.08 1.53.63 3.09 1.75 4.17 1.12 1.11 2.7 1.62 4.24 1.79v4.03c-1.44-.05-2.89-.35-4.2-.97-.57-.26-1.1-.59-1.62-.93-.01 2.92.01 5.84-.02 8.75-.08 1.4-.54 2.79-1.35 3.94-1.31 1.92-3.58 3.17-5.91 3.21-1.43.08-2.86-.31-4.08-1.03-2.02-1.19-3.44-3.37-3.65-5.71-.02-.5-.03-1-.01-1.49.18-1.9 1.12-3.72 2.58-4.96 1.66-1.44 3.98-2.13 6.15-1.72.02 1.48.02 2.96 0 4.44-.9-.15-1.89-.1-2.63.42-.72.51-1.16 1.35-1.21 2.21-.02.27-.01.55.02.82.15.94 1.01 1.74 1.94 1.85.93.12 1.91-.29 2.46-1.06.3-.41.44-.91.44-1.41V.02h-.13z"></path></svg>TikTok</a> at <a href="https://www.instagram.com/conenswirl/" target="_blank" rel="noopener noreferrer" class="font-semibold text-primary underline-offset-4 hover:underline">@conenswirl</a>.</p><dl class="mt-10 space-y-6 text-sm"><div><dt class="font-display text-xs font-semibold uppercase tracking-widest text-ink">Email</dt><dd class="mt-2"><a href="mailto:conenswirl@gmail.com" class="font-semibold text-primary underline-offset-4 hover:underline">conenswirl@gmail.com</a></dd></div><div><dt class="font-display text-xs font-semibold uppercase tracking-widest text-ink">Phone</dt><dd class="mt-2"><a href="tel:+19562860601" class="font-semibold text-primary underline-offset-4 hover:underline">(956) 286-0601</a></dd></div></dl></div></div></section></main><footer class="border-t border-ink/10 bg-ink py-10 text-surface"><div class="mx-auto flex max-w-5xl flex-col gap-6 px-5 sm:flex-row sm:items-center sm:justify-between lg:px-8"><div><p class="font-display text-lg font-semibold uppercase tracking-wide">CONE N' SWIRL</p><p class="mt-1 text-sm text-surface/65">© 2026 CONE N' SWIRL. All rights reserved.</p></div><div class="flex flex-wrap items-center gap-6 text-sm font-semibold uppercase tracking-wide text-surface/80"><a href="#menu" class="hover:text-surface">Menu</a><a href="#schedule" class="hover:text-surface">Find us</a><a href="#gallery" class="hover:text-surface">Gallery</a><a href="#contact" class="hover:text-surface">Contact</a><span class="inline-flex flex-wrap items-center gap-4"><a href="https://www.instagram.com/conenswirl/" target="_blank" rel="noopener noreferrer" class="inline-flex items-center gap-2 hover:text-surface" aria-label="CONE N&#39; SWIRL on Instagram"><svg class="h-5 w-5" viewBox="0 0 24 24" aria-hidden="true" fill="currentColor"><path d="M12 2.163c3.204 0 3.584.012 4.85.07 1.252.058 2.083.242 2.633.516a5.275 5.275 0 011.92 1.247 5.25 5.25 0 011.247 1.92c.274.55.458 1.38.516 2.633.058 1.266.07 1.646.07 4.85s-.012 3.584-.07 4.85c-.058 1.252-.242 2.083-.516 2.633a5.275 5.275 0 01-1.247 1.92 5.25 5.25 0 01-1.92 1.247c-.55.274-1.38.458-2.633.516-1.266.058-1.646.07-4.85.07s-3.584-.012-4.85-.07c-1.252-.058-2.083-.242-2.633-.516a5.275 5.275 0 01-1.92-1.247 5.25 5.25 0 01-1.247-1.92c-.274-.55-.458-1.38-.516-2.633-.058-1.266-.07-1.646-.07-4.85s.012-3.584.07-4.85c.058-1.252.242-2.083.516-2.633a5.275 5.275 0 011.247-1.92 5.25 5.25 0 011.92-1.247c.55-.274 1.38-.458 2.633-.516 1.266-.058 1.646-.07 4.85-.07zM12 5.838a6.162 6.162 0 100 12.324A6.162 6.162 0 0012 5.838zm0 10a4 4 0 110-8 4 4 0 010 8zm6.406-11.845a1.44 1.44 0 100 2.881 1.44 1.44 0 000-2.881z"></path></svg>Instagram</a><a href="https://www.facebook.com/conenswirl" target="_blank" rel="noopener noreferrer" class="inline-flex items-center gap-2 hover:text-surface" aria-label="CONE N&#39; SWIRL on Facebook"><svg class="h-5 w-5" viewBox="0 0 24 24" aria-hidden="true" fill="currentColor"><path d="M24 12.073c0-6.627-5.373-12-12-12s-12 5.373-12 12c0 5.99 4.388 10.954 10.125 11.854v-8.385H7.078v-3.47h3.047V9.43c0-3.007 1.792-4.669 4.533-4.669 1.312 0 2.686.235 2.686.235v2.953H15.83c-1.491 0-1.956.925-1.956 1.874v2.25h3.328l-.532 3.47h-2.796v8.385C19.612 23.027 24 18.062 24 12.073z"></path></svg>Facebook</a><a href="https://www.tiktok.com/@conenswirl" target="_blank" rel="noopener noreferrer" class="inline-flex items-center gap-2 hover:text-surface" aria-label="CONE N&#39; SWIRL on TikTok"><svg class="h-5 w-5" viewBox="0 0 24 24" aria-hidden="true" fill="currentColor"><path d="M12.525.02c1.31-.02 2.61-.01 3.91-.02.08 1.53.63 3.09 1.75 4.17 1.12 1.11 2.7 1.62 4.24 1.79v4.03c-1.44-.05-2.89-.35-4.2-.97-.57-.26-1.1-.59-1.62-.93-.01 2.92.01 5.84-.02 8.75-.08 1.4-.54 2.79-1.35 3.94-1.31 1.92-3.58 3.17-5.91 3.21-1.43.08-2.86-.31-4.08-1.03-2.02-1.19-3.44-3.37-3.65-5.71-.02-.5-.03-1-.01-1.49.18-1.9 1.12-3.72 2.58-4.96 1.66-1.44 3.98-2.13 6.15-1.72.02 1.48.02 2.96 0 4.44-.9-.15-1.89-.1-2.63.42-.72.51-1.16 1.35-1.21 2.21-.02.27-.01.55.02.82.15.94 1.01 1.74 1.94 1.85.93.12 1.91-.29 2.46-1.06.3-.41.44-.91.44-1.41V.02h-.13z"></path></svg>TikTok</a></span></div></div></footer></div></div>
   
 
 </body></html>
